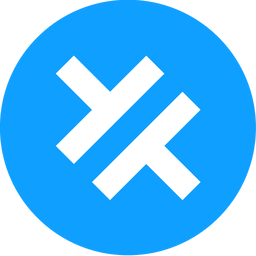
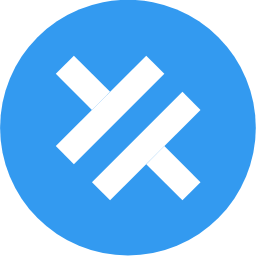
Change theme to #339af0

diff --git a/index.html b/index.html
@@ -4,7 +4,7 @@
     <meta charset="UTF-8" />
     <link rel="icon" type="image/svg+xml" href="/favicon.svg" />
     <meta name="viewport" content="width=device-width, initial-scale=1.0" />
-    <meta name="theme-color" content="#0E9FFF"/>
+    <meta name="theme-color" content="#339af0"/>
     <title>Entalpiya</title>
   </head>
   <body>

diff --git a/vite.config.ts b/vite.config.ts
@@ -15,7 +15,7 @@ export default defineConfig({
       },
       includeAssets: ['**/*'],
       manifest: {
-        theme_color: '#0E9FFF',
+        theme_color: '#339af0',
         background_color: '#ffffff',
         display: 'standalone',
         scope: '/',
